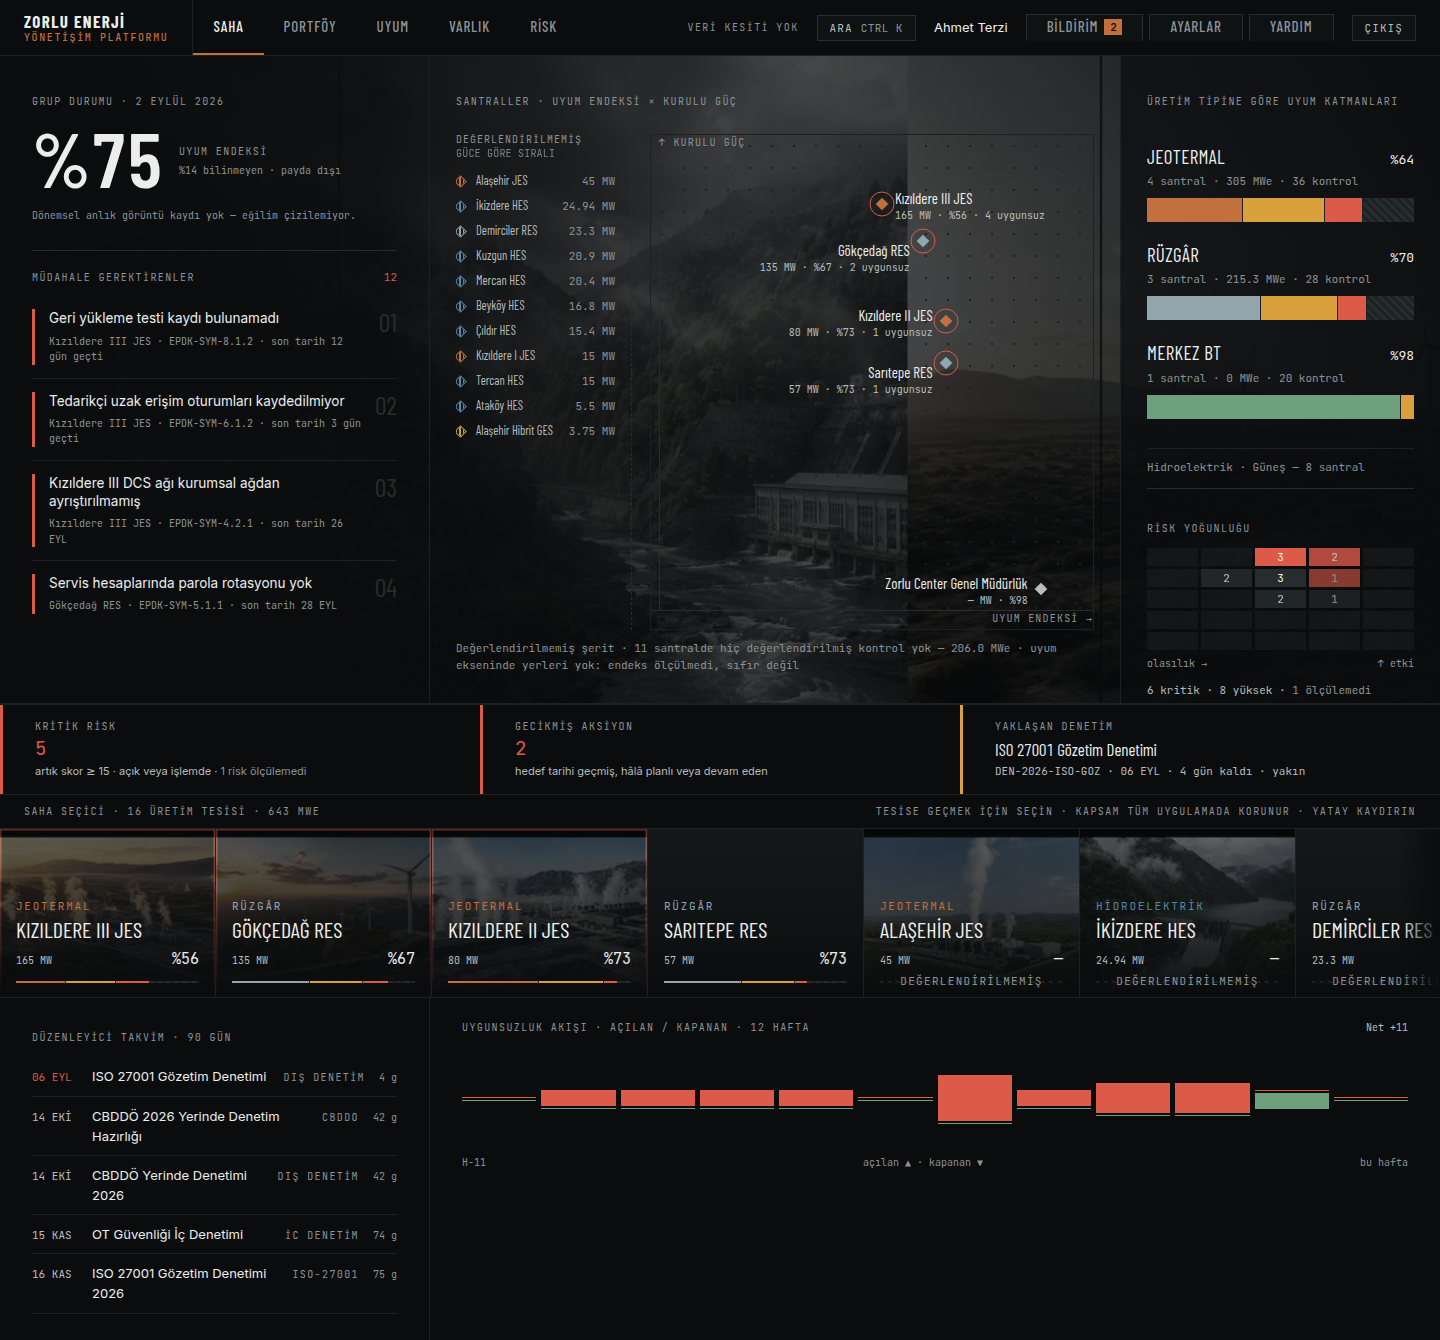
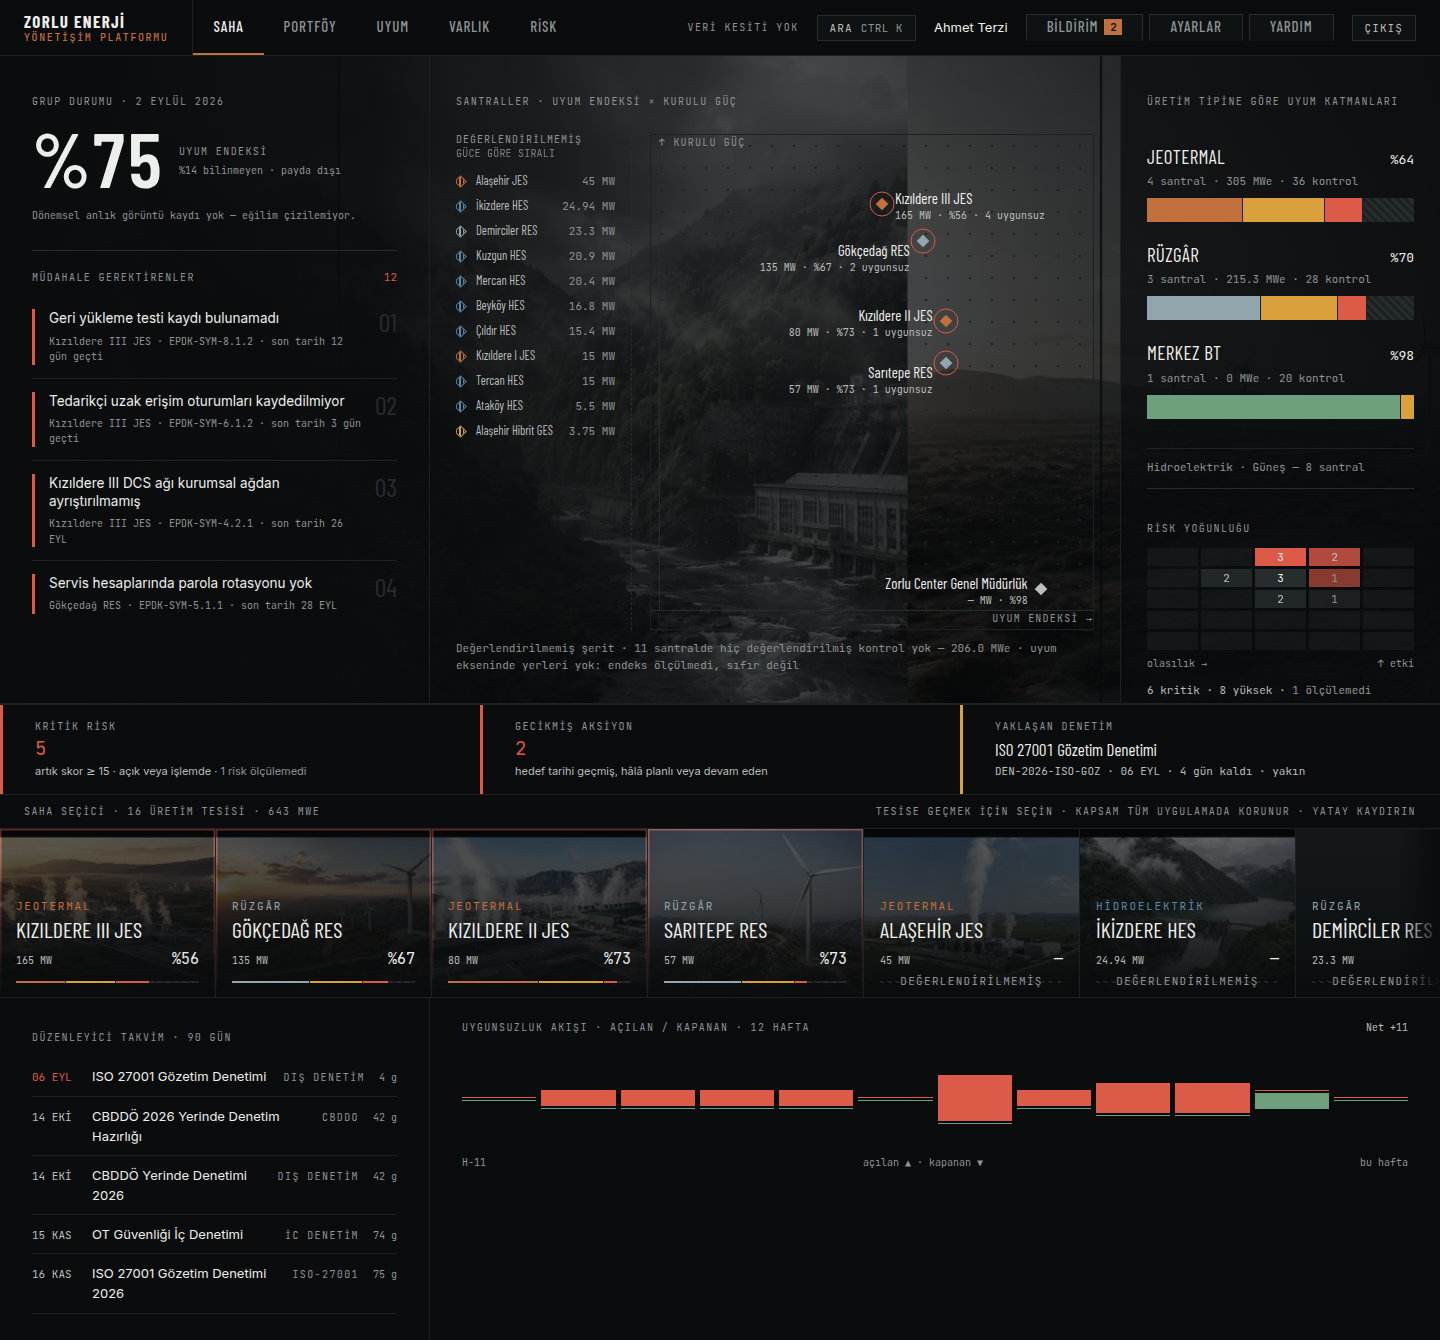
Beş santral görseli bağlandı; görsel kapısının koyu tema körlüğü kapandı
Ahmet'in sağladığı beş temsilî fotoğraf hero (1672×941) ve seçici küçük
(240×150) setine alındı, veriye ve künyeye bağlandı:

  tercan       Tercan HES           kar lekeli yayla, dolusavaklı gövde
  saritepe     Sarıtepe RES         kayalık sırt boyunca çok türbinli saha
  atakoy       Ataköy HES           yeşil tepeler, orta ölçek gövde
  alasehirges  Alaşehir Hibrit GES  jeotermal tesis + panel tarlası
  luleburgaz   Lüleburgaz DGKÇ      bacalı kombine çevrim, Trakya ovası

Alaşehir'de iki tesis olduğu için GES ayrı anahtar aldı (`alasehirges`);
`tercan` küçük görseli önceki paketten kalan eşsiz kopyanın yerine kendi
hero'sundan yeniden kırpıldı. Hero'su olmayan iki tesis kaldı: Demirciler
RES ve Zorlu Center. Demirciler de Osmaniye'de bir RES ama Sarıtepe'nin
görselini ALMADI — bir görsel yalnız gösterdiği santrali temsil eder.

Bu iş sırasında görsel regresyon kapısının ölçemediği ortaya çıktı:
/portfoy şeridine beş fotoğraf girdiği hâlde kapı "%0,000 fark" dedi.
Sebep pixelmatch'in 0,1'lik varsayılan piksel eşiği; koyu temada
karartılmış bir fotoğraf bandının renk uzaklığı bunun altında kalıyor,
yani kapı ürünün yalnız PARLAK yerlerini ölçüyordu. Eşik ölçülerek 0,05'e
indirildi — aynı değişiklik artık %1,39 okunuyor, değişmemiş sayfalarda
gürültü %0,004'te duruyor ve aynı sayfanın iki yakalaması 0,03'te bile
piksel piksel aynı çıkıyor. Ölçüm tablosu aracın içinde ve BENIOKU'da.

Kapılar: lint 0 · tsc 0 · vitest 70 dosya/1283 durum · tasarım kapısı 0 ·
[…]

Changed region(s): [[0.4375, 0.6119, 0.625, 0.7037]]

diff --git a/web/prisma/seed.ts b/web/prisma/seed.ts
@@ -70,7 +70,7 @@ async function main() {
     ['KIZILDERE-3', 'Kızıldere III JES', 'JEO', 165, 'Denizli/Aydın', 'aktif', null, null, -3330, 'kizildere3'],
     ['ALASEHIR-JES', 'Alaşehir JES', 'JEO', 45, 'Manisa', 'aktif', null, null, -4090, 'alasehir'],
     ['GOKCEDAG-RES', 'Gökçedağ RES', 'RES', 135, 'Osmaniye', 'aktif', null, null, -6320, 'gokcedag'],
-    ['SARITEPE-RES', 'Sarıtepe RES', 'RES', 57, 'Osmaniye', 'aktif', null, null, -5840, null],
+    ['SARITEPE-RES', 'Sarıtepe RES', 'RES', 57, 'Osmaniye', 'aktif', null, null, -5840, 'saritepe'],
     ['DEMIRCILER-RES', 'Demirciler RES', 'RES', 23.3, 'Osmaniye', 'aktif', null, null, -5560, null],
     ['IKIZDERE-HES', 'İkizdere HES', 'HES', 24.94, 'Rize', 'aktif', null, null, -5990, 'ikizdere'],
     ['TERCAN-HES', 'Tercan HES', 'HES', 15, 'Erzincan', 'aktif', null, null, -5660, 'tercan'],
@@ -78,10 +78,10 @@ async function main() {
     ['BEYKOY-HES', 'Beyköy HES', 'HES', 16.8, 'Eskişehir', 'aktif', null, null, -5220, 'beykoy'],
     ['KUZGUN-HES', 'Kuzgun HES', 'HES', 20.9, 'Erzurum', 'aktif', null, null, -6200, 'kuzgun'],
     ['CILDIR-HES', 'Çıldır HES', 'HES', 15.4, 'Kars', 'aktif', null, null, -6510, 'cildir'],
-    ['ATAKOY-HES', 'Ataköy HES', 'HES', 5.5, 'Tokat', 'aktif', null, null, -4870, null],
-    ['ALASEHIR-GES', 'Alaşehir Hibrit GES', 'GES', 3.75, 'Manisa', 'aktif', null, null, -1810, null],
+    ['ATAKOY-HES', 'Ataköy HES', 'HES', 5.5, 'Tokat', 'aktif', null, null, -4870, 'atakoy'],
+    ['ALASEHIR-GES', 'Alaşehir Hibrit GES', 'GES', 3.75, 'Manisa', 'aktif', null, null, -1810, 'alasehirges'],
     ['MERKEZ-BT', 'Zorlu Center Genel Müdürlük', 'MERKEZ', null, 'İstanbul', 'aktif', null, null, -5000, null],
-    ['LULEBURGAZ-DGKC', 'Lüleburgaz DGKÇ (devredildi)', 'DGKC', 82, 'Kırklareli', 'kapali', -300, 'satis', -9950, null],
+    ['LULEBURGAZ-DGKC', 'Lüleburgaz DGKÇ (devredildi)', 'DGKC', 82, 'Kırklareli', 'kapali', -300, 'satis', -9950, 'luleburgaz'],
   ] as const).map(async ([kod, ad, tipKod, guc, konum, durum, kapanis, neden, giris, gorsel]) => [kod,
     await db.tesis.create({ data: {
       kod, ad, tipId: tip[tipKod].id, kuruluGucMw: guc, konum, durum,

diff --git a/web/lib/gorsel.ts b/web/lib/gorsel.ts
@@ -14,8 +14,9 @@ import { TEMEL } from './demo';
 
 
 /** Tam boy hero kırpımı üretilmiş anahtarlar (560px hero / 300px plaka).
-    Set: Ahmet'in sağladığı 10 temsilî santral görseli (2026-09-01), künye
-    `public/santraller/KUNYE.md`. Anahtar → dosya adı `<anahtar>-<tip>.webp`. */
+    Set: Ahmet'in sağladığı 15 temsilî santral görseli (10'u 2026-09-01,
+    5'i 2026-09-02), künye `public/santraller/KUNYE.md`.
+    Anahtar → dosya adı `<anahtar>-<tip>.webp`. */
 const HERO: Record<string, string> = {
   kizildere1: 'kizildere1-jes',
   kizildere2: 'kizildere2-jes',
@@ -27,11 +28,18 @@ const HERO: Record<string, string> = {
   beykoy: 'beykoy-hes',
   cildir: 'cildir-hes',
   mercan: 'mercan-hes',
+  tercan: 'tercan-hes',
+  saritepe: 'saritepe-res',
+  atakoy: 'atakoy-hes',
+  luleburgaz: 'luleburgaz-dgkc',
+  // Alaşehir'de iki tesis var: `alasehir` JES, `alasehirges` hibrit GES.
+  alasehirges: 'alasehir-ges',
 };
 
-/** 240×150 seçici küçük görseli üretilmiş anahtarlar (hero setinden kırpım;
-    `tercan` önceki paketten kalan tek küçük görsel, hero'su yok). */
-const KUCUK = new Set([...Object.keys(HERO), 'tercan']);
+/** 240×150 seçici küçük görseli üretilmiş anahtarlar (hero setinden kırpım).
+    Fotoğrafı olmayan santral (Demirciler RES, Zorlu Center) hiçbir anahtar
+    almaz ve tipografik fallback'e düşer — §1: dolgu görsel yok. */
+const KUCUK = new Set(Object.keys(HERO));
 
 export const NOTR_TRIPTIK = `${TEMEL}/santraller/notr-triptik.webp`;
 

diff --git a/web/public/santraller/KUNYE.md b/web/public/santraller/KUNYE.md
@@ -1,7 +1,8 @@
 # Santral Görselleri Künyesi
 
 `santraller/genis/` (hero, 1672×941) ve `santraller/kucuk/` (seçici, 240×150) altındaki
-santral görselleri Ahmet Terzi tarafından 2026-09-01'de sağlandı; platformda
+santral görselleri Ahmet Terzi tarafından sağlandı — ilk on tanesi 2026-09-01'de,
+kalan beşi 2026-09-02'de; platformda
 **temsilî** santral görselleri olarak kullanılır. Santral → anahtar eşlemesi
 veride (`Tesis.gorselAnahtari`), anahtar → dosya eşlemesi `lib/gorsel.ts`'de yaşar.
 
@@ -17,10 +18,19 @@ veride (`Tesis.gorselAnahtari`), anahtar → dosya eşlemesi `lib/gorsel.ts`'de 
 | `beykoy` | Beyköy HES | Hidroelektrik | küçük gövde, seyrek ağaçlı tepeler | küçük ölçek, Eskişehir |
 | `cildir` | Çıldır HES | Hidroelektrik | geniş mavi göl, çıplak dağlar | Kars/Çıldır gölü |
 | `mercan` | Mercan HES | Hidroelektrik | dar kayalık boğaz, turkuaz su | Tunceli/Munzur vadisi |
+| `tercan` | Tercan HES | Hidroelektrik | kar lekeli çıplak yayla, geniş rezervuar, dolusavaklı gövde | Erzincan yüksek platosu |
+| `saritepe` | Sarıtepe RES | Rüzgâr | kayalık sırt boyunca uzanan çok türbinli saha | Osmaniye/Nur dağları, portföyün ikinci büyük RES'i |
+| `atakoy` | Ataköy HES | Hidroelektrik | yeşil tepeler arasında orta ölçek gövde, savak akışı | Tokat/Yeşilırmak havzası |
+| `alasehirges` | Alaşehir Hibrit GES | Güneş | jeotermal tesisin yanında geniş panel tarlası | hibrit tesis; Alaşehir bağ ovası |
+| `luleburgaz` | Lüleburgaz DGKÇ | Doğal gaz kombine çevrim | bacalı kombine çevrim tesisi, tarım ovası | Kırklareli/Trakya (devredildi) |
 
-`tercan` küçük görseli önceki paketten kalmıştır; hero'su yoktur.
-Fotoğrafı sağlanmayan santraller (Sarıtepe RES, Demirciler RES, Tercan HES hero,
-Ataköy HES, Alaşehir GES, Zorlu Center, Lüleburgaz) tipografik fallback alır;
-başka bir santralin görseli dolgu amacıyla kullanılmaz.
+Alaşehir'de iki tesis vardır ve ayrı anahtar taşırlar: `alasehir` (JES) ve
+`alasehirges` (hibrit GES). `tercan` küçük görseli 2026-09-02'de kendi hero'sundan
+yeniden kırpıldı; önceki paketten kalan eşsiz kopyanın yerini aldı.
+
+Fotoğrafı hâlâ sağlanmayan iki tesis — **Demirciler RES** ve **Zorlu Center Genel
+Müdürlük** — tipografik fallback alır. Demirciler de Osmaniye'de bir RES'tir ama
+Sarıtepe'nin görseli ona verilmez: bir görsel yalnız gösterdiği santrali temsil
+eder, başka bir santralin görseli dolgu amacıyla kullanılmaz.
 
 Tip bazlı genel görseller (giriş ekranı vb.) ayrı settir: `gorseller/KUNYE.md`.

diff --git a/docs/HAZIRLIK_DURUMU.md b/docs/HAZIRLIK_DURUMU.md
@@ -175,15 +175,14 @@ değişiklik tek dosyada kaldı. Yayın URL'leri değişti: eski
 
 **13. `.abacus.donotdelete`** — şifreli blob, dokunulmadı.
 
-**14. Yedi santralin hero görseli yok.** Fotoğrafı olmayanlar: Tercan HES
-(küçük görseli var, hero'su yok), Sarıtepe RES, Demirciler RES, Ataköy
-HES, Alaşehir Hibrit GES, Lüleburgaz DGKÇ, Zorlu Center. Hepsi tipografik
-fallback alıyor; **başka bir santralin görseli dolgu amacıyla
-kullanılmaz** (`lib/gorsel.ts` §1, `public/santraller/KUNYE.md`).
-Ahmet beş temsilî görsel sağladığında eşleme önerisi hazırdır — büyük
-beton baraj → Tercan, sırt türbinleri → Sarıtepe, doğalgaz kombine çevrim
-→ Lüleburgaz, jeotermal + güneş → Alaşehir Hibrit GES, küçük gövde →
-Ataköy. Demirciler RES ve Zorlu Center o beşle de kapanmaz.
+**14. İki tesisin hero görseli yok.** (Önceki hâli yediydi; Ahmet'in
+2026-09-02'de sağladığı beş temsilî görsel Tercan HES, Sarıtepe RES,
+Ataköy HES, Alaşehir Hibrit GES ve Lüleburgaz DGKÇ'ye bağlandı — künye
+`public/santraller/KUNYE.md`.) Geriye **Demirciler RES** ve **Zorlu
+Center Genel Müdürlük** kaldı; ikisi de tipografik fallback alıyor.
+Demirciler de Osmaniye'de bir RES'tir ama Sarıtepe'nin görseli ona
+verilmez: **başka bir santralin görseli dolgu amacıyla kullanılmaz**
+(`lib/gorsel.ts` §1).
 
 **15. Haritada ülke sınırı çizilmiyor.** Tuval şu an yalnız işaretleri ve
 enlem/boylam çerçevesini çiziyor. Doğrulanmış bir GeoJSON eklenirse tuval

diff --git a/web/arac/BENIOKU.md b/web/arac/BENIOKU.md
@@ -117,6 +117,15 @@ fark görüntüsü `FARK_DIZINI`'ne (varsayılan `$TMPDIR/gorsel-fark`) yazılı
 **Altın yoksa kusurdur**; `--yaz` altınları yeniler — yalnız bilinçli
 tasarım değişikliğinden sonra, gözle bakarak.
 
+İki eşik vardır ve karıştırılmamalıdır: `ESIK_YUZDE` (%0,5) *sayfanın ne
+kadarı* değişince kusur sayılacağını, `PIKSEL_ESIGI` (0,05) *bir pikselin
+ne kadar değişince* sayılacağını söyler. İkincisi 2026-09-02'de
+pixelmatch varsayılanı olan 0,1'den indirildi: /portfoy şeridine beş
+santral fotoğrafı eklendiğinde kapı %0,000 fark demişti — koyu temada
+karartılmış bir fotoğraf bandının piksel uzaklığı 0,1'in altında kalıyor,
+yani kapı ürünün yalnız parlak yerlerini ölçüyordu. Yeni değer ölçülerek
+seçildi; gerekçe ve ölçüm tablosu aracın kendi içinde yazılıdır.
+
 ```bash
 PORT=3210 node arac/gorsel-regresyon.mjs --yaz            # ilk altınlar
 PORT=3210 node arac/gorsel-regresyon.mjs                  # karşılaştır
